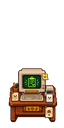
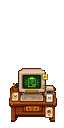
Order terminal: fringe-free art drawn at whole 2x scale centred on its base with a ground shadow; placement ignores grass/flooring like native (grass cleared), passers-by never collapse a placed terminal, blocked clicks explain why
Claude-Session: https://claude.ai/code/session_01UzUGsvmqxxUpAbp4KvnqEk

diff --git a/source/Orders/TerminalEntity.cs b/source/Orders/TerminalEntity.cs
@@ -13,11 +13,13 @@ internal static class TerminalEntity
     internal const string Prefix = OrderRules.Prefix + "Terminal2x2/";
     internal const string IdKey = Prefix + "Id", RoleKey = Prefix + "Role", XKey = Prefix + "X", YKey = Prefix + "Y", PendingKey = Prefix + "Pending";
     internal const int Width = 2, Depth = 1, WorldSize = 2;
-    // Opaque extent of the unchanged 64x128 formal asset. Fit uniformly, center the
-    // base on the two ground cells, and align its bottom with the ground boundary.
-    internal static readonly Rectangle WorldSource = new(6, 66, 54, 59);
-    internal const float WorldScale = 128f / 59f;
-    internal static Vector2 DrawPosition(Vector2 anchor) => new(anchor.X * 64 + (128 - WorldSource.Width * WorldScale) / 2, anchor.Y * 64 - 64);
+    // Opaque extent of the 64x128 formal asset (fringe-free). Drawn at a whole-number
+    // scale so every art pixel is the same 2x2 screen block, centred on the two ground
+    // cells with the legs standing on the bottom edge of the base row.
+    internal static readonly Rectangle WorldSource = new(9, 68, 48, 54);
+    internal const int WorldScale = 2;
+    internal static Vector2 DrawPosition(Vector2 anchor) => new(anchor.X * 64 + (Width * 64 - WorldSource.Width * WorldScale) / 2,
+        (anchor.Y + Depth) * 64 - WorldSource.Height * WorldScale);
     internal static bool IsPart(SObject o) => OrderTerminal.IsTerminal(o) && o.modData.TryGetValue(RoleKey, out var role) && role == "part";
     internal static bool Pending(SObject o) => o.modData.ContainsKey(PendingKey);
     internal static string Id(SObject o) => o.modData.TryGetValue(IdKey, out var id) ? id : "";
@@ -74,13 +76,20 @@ internal static class TerminalEntity
         bool own = location.objects.TryGetValue(tile, out var current) && ownId != null
             && OrderTerminal.IsTerminal(current) && Id(current) == ownId;
         if (location.objects.ContainsKey(tile) && !own) return false;
+        // Like native placement: grass, flooring and tilled soil without a crop may sit under the desk;
+        // trees, saplings, bushes and other features may not.
+        if (location.terrainFeatures.TryGetValue(tile, out var feature)
+            && feature is not (StardewValley.TerrainFeatures.Grass or StardewValley.TerrainFeatures.Flooring or StardewValley.TerrainFeatures.HoeDirt)) return false;
         // Native rugs are passable. Inspect every overlapping piece so a rug cannot
         // hide a table/chair behind GetFurnitureAt's first result.
         if (location.furniture.Any(f => f.GetBoundingBox().Intersects(CellBounds(tile)) && !f.isPassable())) return false;
         var mask = CollisionMask.All & ~(CollisionMask.Flooring | CollisionMask.Furniture);
-        if (own) mask &= ~CollisionMask.Objects;
-        return !location.IsTileOccupiedBy(tile, mask, CollisionMask.None);
+        // A terminal already standing here must not be judged by someone walking past it.
+        if (own) mask &= ~(CollisionMask.Objects | CollisionMask.Farmers | CollisionMask.Characters);
+        return !location.IsTileOccupiedBy(tile, mask, PassableIgnored);
     }
+    // Native placement ignores passable things (grass tufts, flooring) but never people or objects.
+    internal const CollisionMask PassableIgnored = CollisionMask.All & ~(CollisionMask.Objects | CollisionMask.Farmers | CollisionMask.Characters);
     // Placement has its own range; interaction and pickup retain InReach unchanged.
     internal static int PlacementDistance = 3;
     internal static bool PlacementReach(Farmer who, Vector2 anchor)
@@ -104,7 +113,7 @@ internal static class TerminalEntity
             return location.isTileOnMap(tile) && location.isTilePassable(tile)
                 && !location.isWaterTile(cx, cy)
                 && !location.furniture.Any(f => f.GetBoundingBox().Intersects(CellBounds(tile)) && !f.isPassable())
-                && !location.IsTileOccupiedBy(tile, CollisionMask.All & ~(CollisionMask.Flooring | CollisionMask.Furniture), CollisionMask.None);
+                && !location.IsTileOccupiedBy(tile, CollisionMask.All & ~(CollisionMask.Flooring | CollisionMask.Furniture), PassableIgnored);
         }
         int ix = 0, iy = 0;
         while (ix < nx || iy < ny)

diff --git a/source/Orders/TerminalWorld.cs b/source/Orders/TerminalWorld.cs
@@ -76,10 +76,14 @@ internal sealed class TerminalWorld
         if (!TerminalEntity.CanPlace(l, tile, who)) return "orders.terminal-blocked";
         TerminalEntity.Stamp(item, l, tile, tile, id, false); item.owner.Value = who.UniqueMultiplayerID;
         var entries = TerminalEntity.Tiles(tile).Select(t => (Tile: t, Item: t == tile ? item : TerminalEntity.NewPart(l, t, item))).ToArray();
-        var steps = entries.Select(p => new AtomicStep(() => l.objects.Add(p.Tile, p.Item), () =>
+        // Native placement clears grass under a new object; do the same so no blades poke through the desk.
+        var grass = TerminalEntity.Tiles(tile).Where(t => l.terrainFeatures.TryGetValue(t, out var f) && f is StardewValley.TerrainFeatures.Grass)
+            .Select(t => (Tile: t, Feature: l.terrainFeatures[t])).ToArray();
+        var steps = grass.Select(g => new AtomicStep(() => l.terrainFeatures.Remove(g.Tile), () => { if (!l.terrainFeatures.ContainsKey(g.Tile)) l.terrainFeatures.Add(g.Tile, g.Feature); })).ToList();
+        steps.AddRange(entries.Select(p => new AtomicStep(() => l.objects.Add(p.Tile, p.Item), () =>
         {
             if (l.objects.TryGetValue(p.Tile, out var current) && ReferenceEquals(current, p.Item)) l.objects.Remove(p.Tile);
-        })).ToList();
+        })));
         Commit(who, steps, commit);
         Dirty.Add(l); SafeLightUpdate(); return null;
     }
@@ -177,7 +181,14 @@ internal sealed class TerminalWorld
                 if (Monitor.IsVerbose) Monitor.Log($"Terminal placement map={l.NameOrUniqueName} target={tile} anchor={tile} footprint={TerminalEntity.Bounds(tile)} result={rejected ?? "accepted"}", LogLevel.Trace);
                 // Invalid placement must fall through to native door/object interaction.
                 // No preview object exists and native placement remains escrow-only.
-                if (rejected != null) return;
+                if (rejected != null)
+                {
+                    // Tell the player why nothing happened, unless the click has its own native use (door, object, furniture).
+                    if (rejected is not ("map" or "range") && !l.objects.ContainsKey(tile) && l.GetFurnitureAt(tile) == null
+                        && l.doesTileHaveProperty((int)tile.X, (int)tile.Y, "Action", "Buildings") == null
+                        && !l.warps.Any(w => w.X == (int)tile.X && w.Y == (int)tile.Y)) Notice("orders.terminal-blocked");
+                    return;
+                }
                 Helper.Input.Suppress(e.Button); Network.Request(l, tile); return;
             }
             if (!TerminalEntity.Resolve(l, tile, out var anchor)) return;

diff --git a/source/Orders/OrderTerminal.cs b/source/Orders/OrderTerminal.cs
@@ -108,9 +108,14 @@ internal sealed class OrderTerminal
  internal static void DrawPlaced(SpriteBatch spriteBatch,Vector2 tile,float alpha,bool legacy)
  {
   Instance.WorldTexture??=Instance.Helper.ModContent.Load<Texture2D>("assets/orders/terminal-world.png");
-  float scale=TerminalEntity.WorldScale;
+  float depth=Math.Max(0,(TerminalEntity.VisualBounds(tile).Bottom-1)/10000f);
+  // Soft ground shadow under the desk, the same shadow sprite the game uses under things standing on the floor.
+  var foot=Game1.GlobalToLocal(Game1.viewport,new Vector2(tile.X*64+TerminalEntity.Width*32,(tile.Y+TerminalEntity.Depth)*64-6));
+  var sb=Game1.shadowTexture.Bounds;
+  spriteBatch.Draw(Game1.shadowTexture,foot,sb,Color.White*(0.45f*alpha),0,new Vector2(sb.Width/2f,sb.Height/2f),
+   new Vector2(104f/sb.Width,18f/sb.Height),SpriteEffects.None,Math.Max(0,depth-0.0001f));
   spriteBatch.Draw(Instance.WorldTexture,Game1.GlobalToLocal(Game1.viewport,TerminalEntity.DrawPosition(tile)),TerminalEntity.WorldSource,
-   Color.White*alpha,0,Vector2.Zero,scale,SpriteEffects.None,Math.Max(0,(TerminalEntity.VisualBounds(tile).Bottom-1)/10000f));
+   Color.White*alpha,0,Vector2.Zero,TerminalEntity.WorldScale,SpriteEffects.None,depth);
  }
  private static bool DrawMenu(SObject __instance,SpriteBatch spriteBatch,Vector2 location,float scaleSize,float transparency,float layerDepth,StackDrawType drawStackNumber,Color color)
  {
